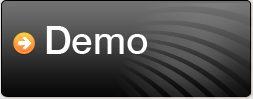
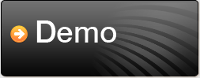
Made buttons on the index page smaller so a bigger video size can be fitted in while still fitting in a 1024px width

diff --git a/desktopsite/apps/content/templates/content/index.html b/desktopsite/apps/content/templates/content/index.html
@@ -9,7 +9,7 @@
 <div class="content">
     <div id="intro">
         <div class="slideshow">
-            <object width="340" height="191"><param name="allowfullscreen" value="true" /><param name="allowscriptaccess" value="always" /><param name="movie" value="http://vimeo.com/moogaloop.swf?clip_id=2615498&amp;server=vimeo.com&amp;show_title=0&amp;show_byline=0&amp;show_portrait=0&amp;color=00adef&amp;fullscreen=1" /><embed src="http://vimeo.com/moogaloop.swf?clip_id=2615498&amp;server=vimeo.com&amp;show_title=0&amp;show_byline=0&amp;show_portrait=0&amp;color=00adef&amp;fullscreen=1" type="application/x-shockwave-flash" allowfullscreen="true" allowscriptaccess="always" width="340" height="191"></embed></object>
+            <object width="400" height="225"><param name="allowfullscreen" value="true" /><param name="allowscriptaccess" value="always" /><param name="movie" value="http://vimeo.com/moogaloop.swf?clip_id=2615498&amp;server=vimeo.com&amp;show_title=0&amp;show_byline=0&amp;show_portrait=0&amp;color=00adef&amp;fullscreen=1" /><embed src="http://vimeo.com/moogaloop.swf?clip_id=2615498&amp;server=vimeo.com&amp;show_title=0&amp;show_byline=0&amp;show_portrait=0&amp;color=00adef&amp;fullscreen=1" type="application/x-shockwave-flash" allowfullscreen="true" allowscriptaccess="always" width="400" height="225"></embed></object>
         </div>
         <div class="intro-content">
             <h1>Open Source Web Desktop</h1>

diff --git a/desktopsite/media/elements.css b/desktopsite/media/elements.css
@@ -21,7 +21,7 @@ a.edit {
 }
 
 #intro h1 {
-    font-size: 28pt;
+    font-size: 25pt;
     margin-top: 0px;
     padding-top: 10px;
 }
@@ -54,7 +54,8 @@ a .rssicon {
 }
 
 .button-row {
-    min-height: 99px;
+    min-height: 78px;
+    text-align: center;
 }
 
 .button-row div {
@@ -63,29 +64,30 @@ a .rssicon {
 
 .download-button {
     background: url('images/layout/download-button.png') no-repeat;
-    width: 253px;
-    height: 99px;
+    width: 200px;
+    height: 78px;
     position: relative;
 }
 
 .download-button div {
     position: absolute;
-    top: 58px;
-    left: 45px;
-    color: #fff;
+    top: 45px;
+    left: 36px;
+    color: #efefef;
+    font-size: 12px;
     font-weight: bold;
     cursor: pointer;
 }
 
 .demo-button {
     background: url('images/layout/demo-button.png') no-repeat;
-    width: 253px;
-    height: 99px;
+    width: 200px;
+    height: 78px;
 }
 
 .separator {
     background: url('images/layout/separator.png') no-repeat;
-    height: 96px;
+    height: 75px;
     width: 2px;
     margin: 3px 10px;
 }

diff --git a/desktopsite/media/pages/index.css b/desktopsite/media/pages/index.css
@@ -5,11 +5,12 @@
 
 .slideshow {
     float: left;
-    margin-top: 60px;
+    margin-top: 40px;
 }
 
 .intro-content {
-    margin-left: 348px;
+    margin-left: 400px;
+    padding-left: 8px;
 }
 
 .slideShowTitle {

diff --git a/desktopsite/media/main.css b/desktopsite/media/main.css
@@ -37,7 +37,7 @@ body {
 #main {
     text-align: left;
     margin: 0 30px;
-    min-width: 940px;
+    min-width: 920px;
 }
 
 #header {
